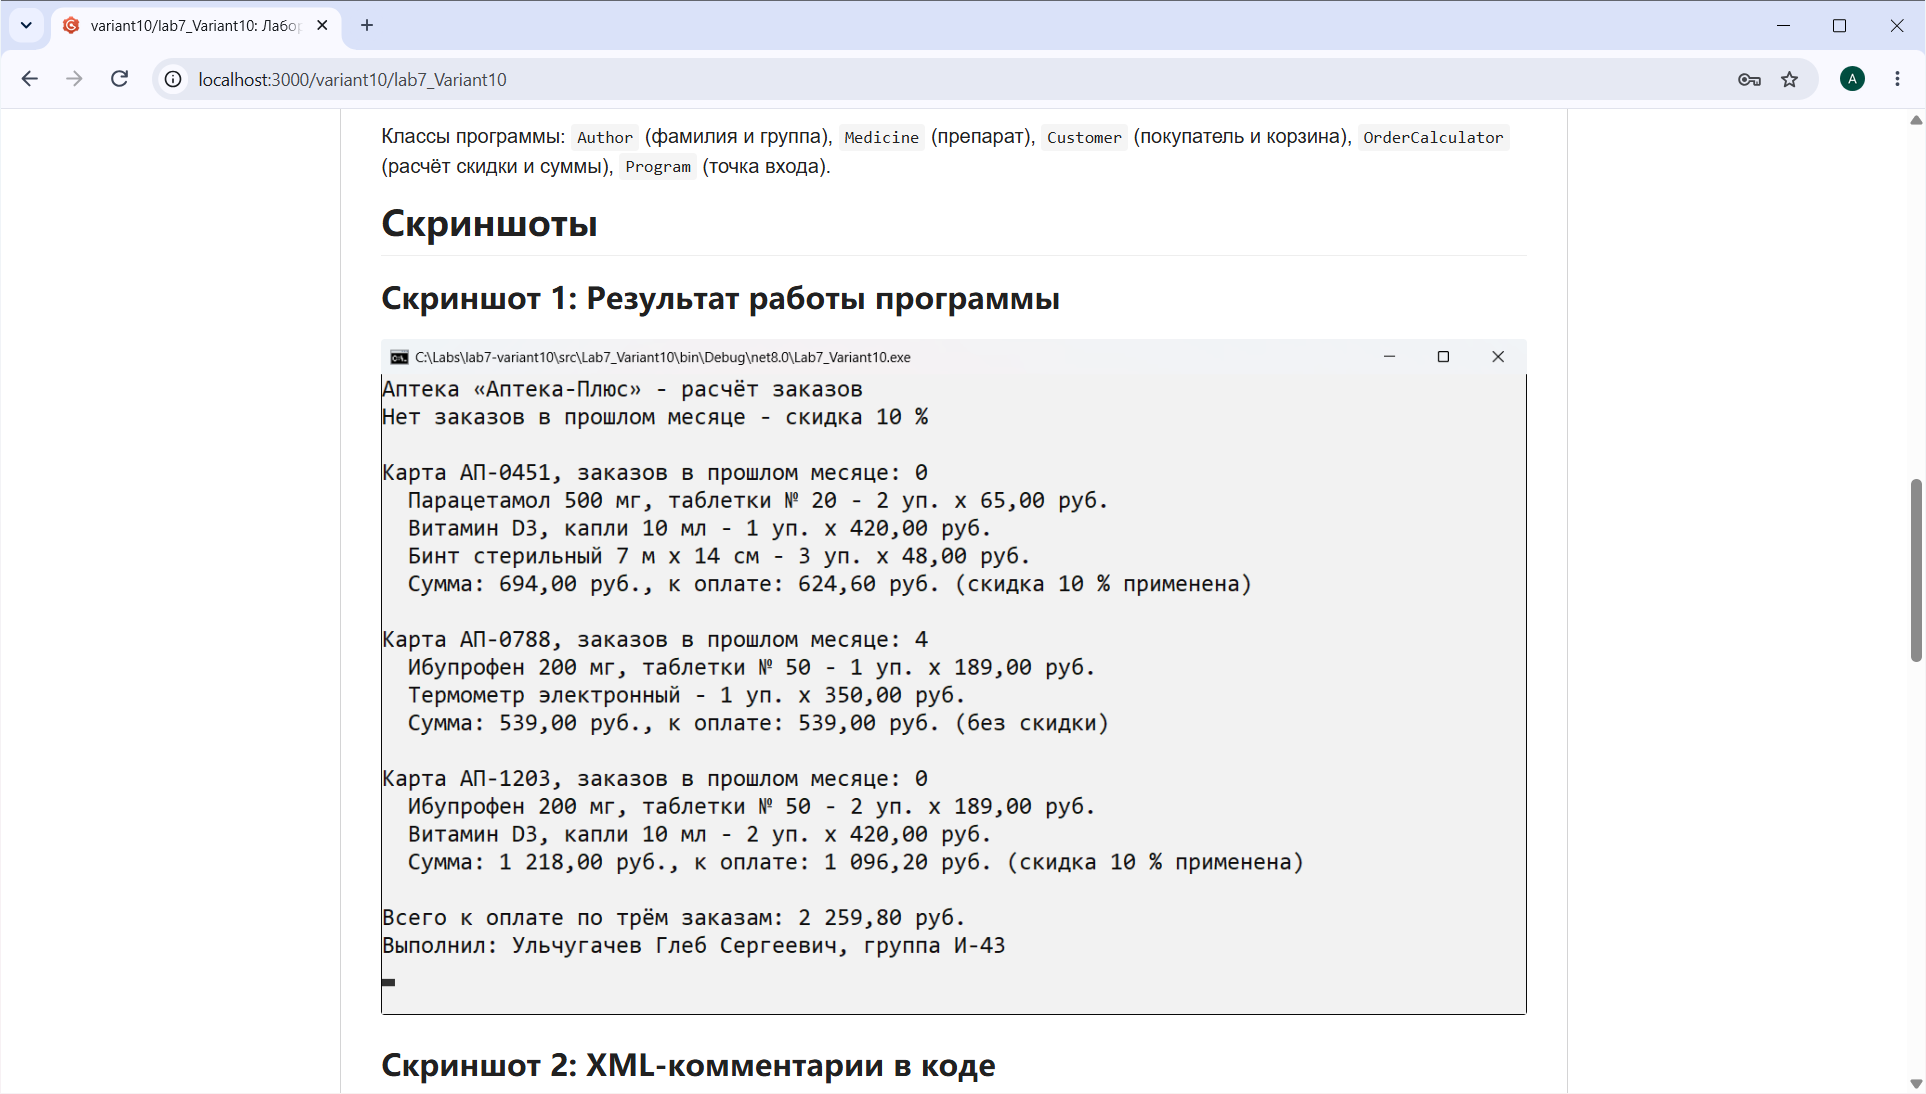
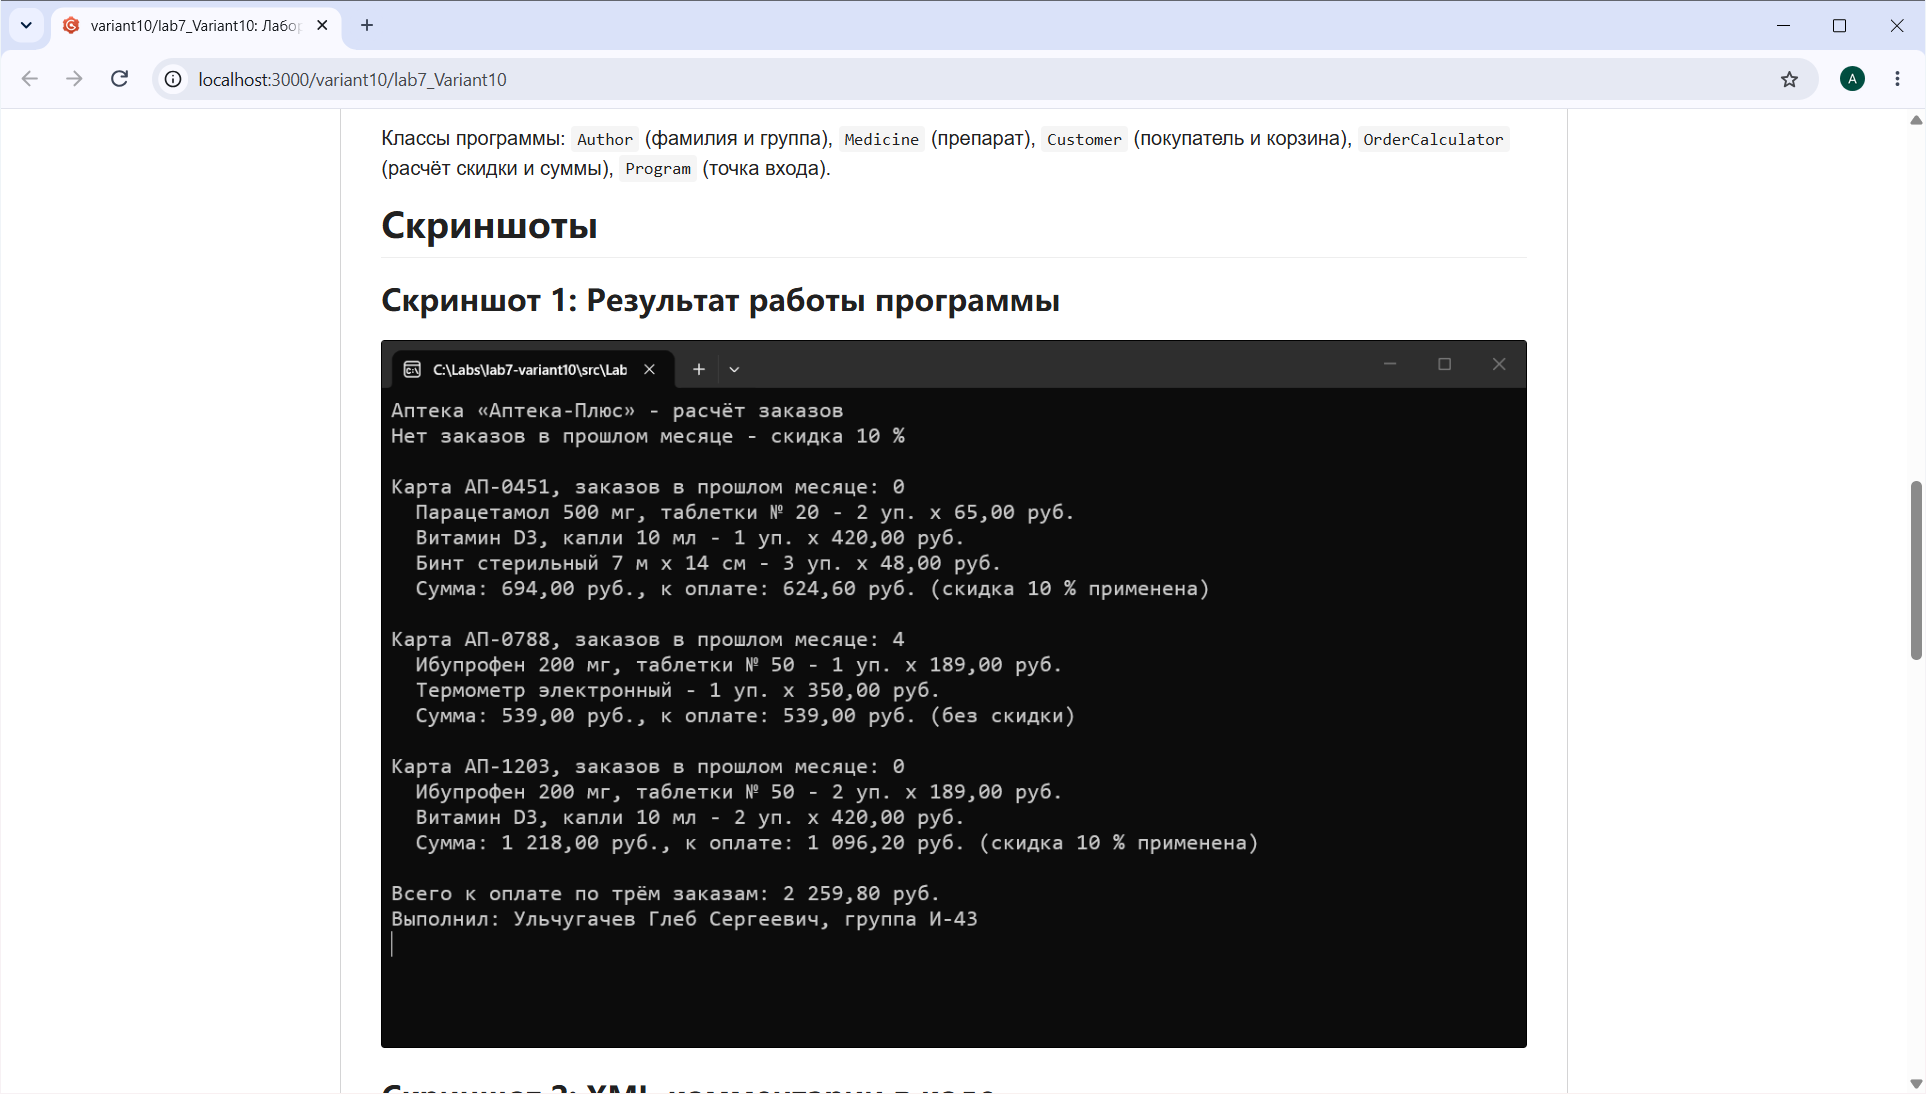
Update console screenshots and repository link

diff --git a/README.md b/README.md
@@ -2,6 +2,8 @@
 
 **Автор:** Ульчугачев Глеб Сергеевич, группа И-43
 
+**Репозиторий:** https://github.com/Wraithbrusleeve/lab7-variant10
+
 Лабораторная работа № 7 «Техническое документирование программного проекта», вариант 10.
 
 ## Что делает программа
